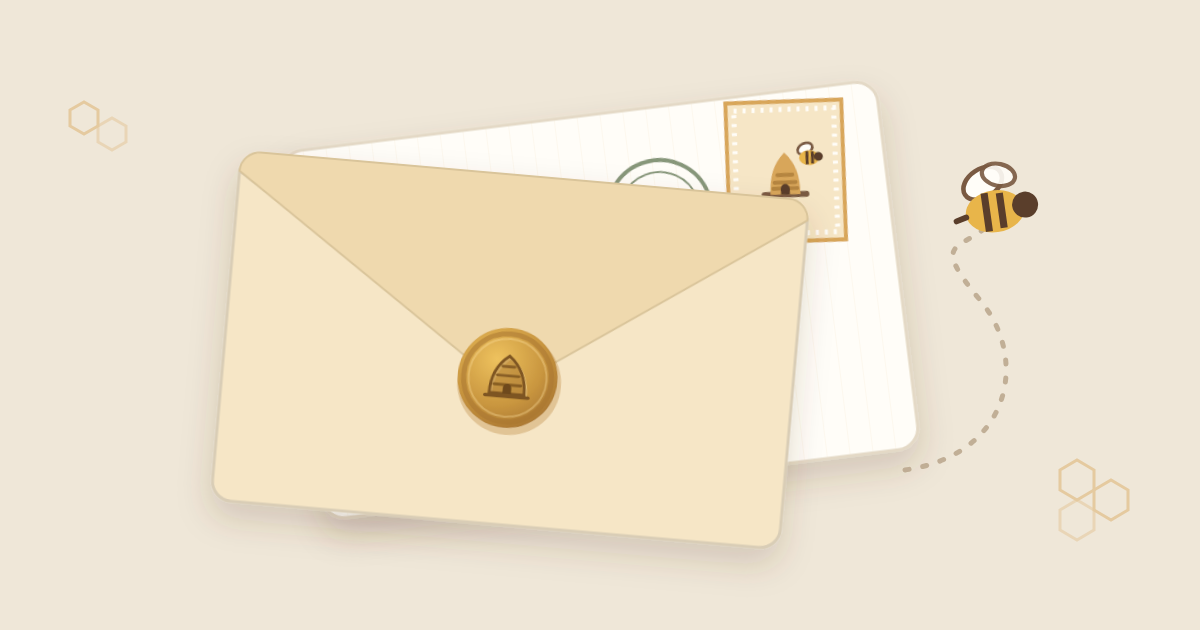
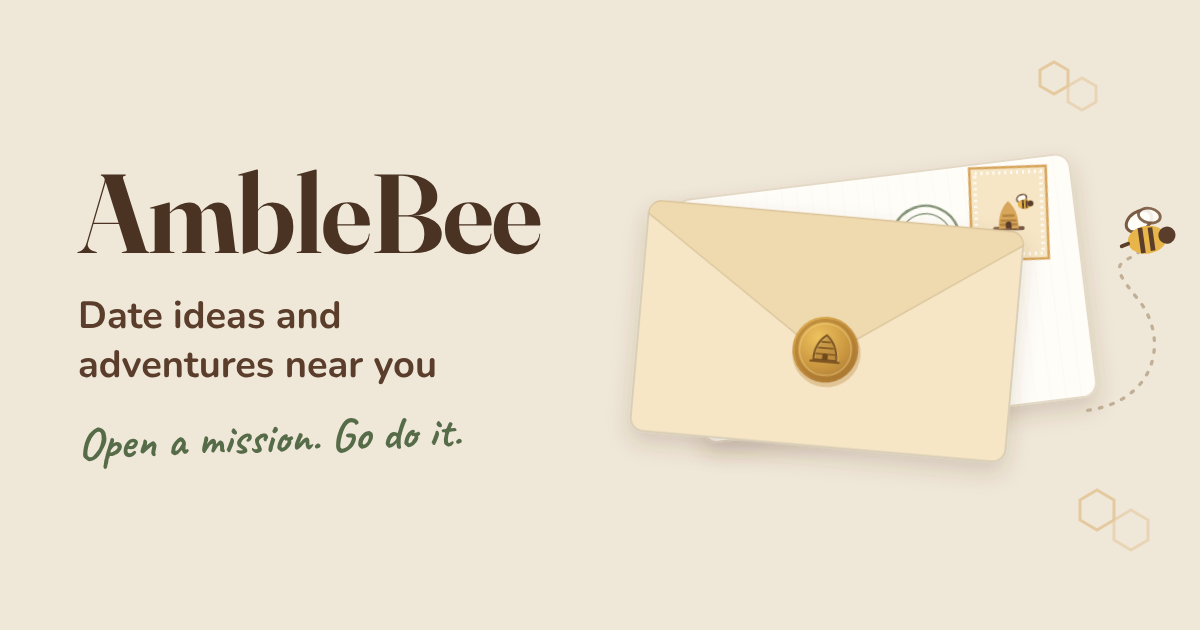
Share cards for site pages, and a home page preview with the AmbleBee name

diff --git a/tools/og-image.html b/tools/og-image.html
@@ -1,5 +1,16 @@
-<!-- Source for site/og-image.png (the 1200x630 link-preview picture). Open in a browser at 1200x630 and screenshot to regenerate. -->
-<!doctype html><html><head><meta charset="utf-8"><style>html,body{margin:0;width:1200px;height:630px;overflow:hidden;background:#EFE7D8}</style></head><body>
+<!-- Source for site/og-image.png (the 1200x630 link-preview picture for the home page). Open in a browser at 1200x630 and
+     screenshot to regenerate; the fonts load from site/fonts/, so open it from inside the repo. -->
+<!doctype html><html><head><meta charset="utf-8"><style>
+@font-face { font-family: F; src: url("../site/fonts/fraunces.woff2"); font-weight: 100 900; }
+@font-face { font-family: N; src: url("../site/fonts/nunito.woff2"); font-weight: 200 1000; }
+@font-face { font-family: C; src: url("../site/fonts/caveat-700.woff2"); font-weight: 700; }
+html,body{margin:0;width:1200px;height:630px;overflow:hidden;background:#EFE7D8;position:relative}
+.words{position:absolute;left:78px;top:0;bottom:0;width:470px;display:flex;flex-direction:column;justify-content:center;z-index:2}
+.name{font:650 112px/1 F;color:#4A3323;letter-spacing:-1.5px;margin:0}
+.line{font:700 38px/1.3 N;color:#5A3E2B;margin:22px 0 0}
+.hand{font:700 46px C;color:#566B48;margin:26px 0 0;transform:rotate(-2deg);transform-origin:left}
+</style></head><body>
+<div class="words"><p class="name">AmbleBee</p><p class="line">Date ideas and adventures near you</p><p class="hand">Open a mission. Go do it.</p></div>
 <svg width="1200" height="630" viewBox="0 0 1200 630" xmlns="http://www.w3.org/2000/svg">
   <defs>
     <radialGradient id="wax" cx="38%" cy="32%" r="75%"><stop offset="0" stop-color="#EEC25E"/><stop offset=".62" stop-color="#C9963F"/><stop offset="1" stop-color="#A87531"/></radialGradient>
@@ -9,6 +20,7 @@
   <!-- soft dotted bee trail across the card -->
   
 
+  <g transform="translate(860 318) scale(.66) translate(-560 -330)">
   <!-- back envelope: addressed front with stamp + postmark (no text) -->
   <g transform="translate(600 300) rotate(-7)" filter="url(#sh)">
     <rect x="-300" y="-185" width="600" height="370" rx="22" fill="url(#paper)" stroke="#E4D9C6" stroke-width="3"/>
@@ -57,9 +69,10 @@
     <circle cx="9.3" cy="2.4" r="3.1" fill="#5A3E2B"/>
     <path d="M-5 3.5 l-2.4 .6" stroke="#5A3E2B" stroke-width="1.4" stroke-linecap="round"/>
   </g>
+  </g>
   <!-- tiny honeycomb accents -->
   <g fill="none" stroke="#D8A65A" stroke-width="3" opacity=".45">
-    <path d="M1060 470 l17 -10 l17 10 v20 l-17 10 l-17 -10z"/><path d="M1094 490 l17 -10 l17 10 v20 l-17 10 l-17 -10z"/><path d="M1060 510 l17 -10 l17 10 v20 l-17 10 l-17 -10z" opacity=".6"/>
-    <path d="M70 110 l14 -8 l14 8 v16 l-14 8 l-14 -8z"/><path d="M98 126 l14 -8 l14 8 v16 l-14 8 l-14 -8z" opacity=".6"/>
+    <path d="M1080 500 l17 -10 l17 10 v20 l-17 10 l-17 -10z"/><path d="M1114 520 l17 -10 l17 10 v20 l-17 10 l-17 -10z" opacity=".6"/>
+    <path d="M1040 70 l14 -8 l14 8 v16 l-14 8 l-14 -8z"/><path d="M1068 86 l14 -8 l14 8 v16 l-14 8 l-14 -8z" opacity=".6"/>
   </g>
 </svg></body></html>

diff --git a/site/index.html b/site/index.html
@@ -15,12 +15,12 @@
 <meta property="og:type" content="website">
 <meta property="og:site_name" content="AmbleBee">
 <meta property="og:url" content="https://amblebee.com/">
-<meta property="og:image" content="https://amblebee.com/og-image.png">
+<meta property="og:image" content="https://amblebee.com/og-image.png?v=2">
 <meta property="og:image:width" content="1200">
 <meta property="og:image:height" content="630">
-<meta property="og:image:alt" content="A sealed AmbleBee envelope with a honey wax seal pressed with a beehive, and a bee flying off to deliver it">
+<meta property="og:image:alt" content="AmbleBee: date ideas and adventures near you. A sealed envelope with a honey wax seal, and a bee flying off to deliver it">
 <meta name="twitter:card" content="summary_large_image">
-<meta name="twitter:image" content="https://amblebee.com/og-image.png">
+<meta name="twitter:image" content="https://amblebee.com/og-image.png?v=2">
 <link rel="icon" href="/favicon.svg" type="image/svg+xml">
 <link rel="icon" href="/favicon-32.png" sizes="32x32" type="image/png">
 <link rel="icon" href="/favicon-192.png" sizes="192x192" type="image/png">

diff --git a/tools/build_pages.py b/tools/build_pages.py
@@ -44,8 +44,8 @@ NEARBY = 3         # "More missions nearby" at the bottom of each mission page: 
 META_MAX = 158     # Google cuts search snippets off at about this many characters
 COLLECTION_MIN = 8 # a collection page (collections.yaml) is built and linked once it has this many live missions
 NEARBY_KM = 160    # about 100 miles; past that, a mission page shows more from its own pack instead
-OG_IMAGE = {"url": f"{BASE}/og-image.png",   # for pages without their own share card; the same as site/index.html
-            "alt": "A sealed AmbleBee envelope with a honey wax seal pressed with a beehive, and a bee flying off to deliver it"}
+OG_IMAGE = {"url": f"{BASE}/og-image.png?v=2",   # for pages without their own share card; the same as site/index.html
+            "alt": "AmbleBee: date ideas and adventures near you. A sealed envelope with a honey wax seal, and a bee flying off to deliver it"}
 CSP = "default-src 'self'; script-src 'self' https://www.googletagmanager.com; style-src 'self' 'unsafe-inline'; img-src 'self' data: blob: https://www.googletagmanager.com https://*.google-analytics.com; connect-src 'self' https://www.googletagmanager.com https://*.google-analytics.com https://*.google.com; object-src 'none'; base-uri 'self'; form-action 'self'"  # also in site/index.html and site/roadmap.html; the Google hosts are for the optional stats in site/js/stats.js
 # the same "Report a problem" form as site/js/core.js: opens with the mission's id and name already filled in
 REPORT_FORM = "https://docs.google.com/forms/d/e/1FAIpQLSesllGRZbJaA4nINHJnwgmJxMIFX4z1aI88puOSOCUmzrnfHQ/viewform"
@@ -53,9 +53,12 @@ REPORT_FIELDS = {"id": "entry.872618061", "name": "entry.160884926"}
 INFO_PAGES = {   # pages/<name>.html holds the words; edit those, not this
     "about": ("About", "How AmbleBee started, where the missions came from, and where the camera and Hive are going."),
     "safety": ("Safety", "How to stay safe on an AmbleBee mission, and what's up to you."),
-    "privacy": ("Privacy", "What AmbleBee Missions keeps, what stays on your device, and what goes to Google or GitHub."),
+    "privacy": ("Privacy", "What AmbleBee keeps, what stays on your device, and what goes to Google or GitHub."),
     "contact": ("Contact", "How to reach AmbleBee: report a problem, suggest a place, or ask for a change."),
 }
+
+# the small line above the title on each info page's share card
+CARD_EYEBROW = {"about": "Our story", "safety": "Before you go", "privacy": "Your info", "contact": "Say hello"}
 
 # the same wording as the labels at the top of site/js/core.js
 MODE = {"date": "Date", "adventure": "Adventure", "both": "Date or adventure"}
@@ -554,14 +557,18 @@ def build_pages(out):
     ld = {"@context": "https://schema.org", "@type": "CollectionPage", "url": f"{BASE}/missions/", "name": "Every mission", "description": intro}
     (Path(out) / "missions").mkdir(parents=True, exist_ok=True)
     (Path(out) / "missions" / "index.html").write_text(
-        page(f"Every mission · {SITE_NAME}", intro, "/missions/", main, ld, brand), encoding="utf-8")
+        page(f"Every mission · {SITE_NAME}", intro, "/missions/", main, ld, brand,
+             image=share_card("page-missions", f"Every mission: {intro}", badge="hive", eyebrow="Date & adventure ideas",
+                              title="Every mission", text=intro, note="amblebee.com/missions")), encoding="utf-8")
 
     for name, (title, desc) in INFO_PAGES.items():
         path = f"/{name}/"
         body = (ROOT / "pages" / f"{name}.html").read_text(encoding="utf-8")
         main = f'<div class="page info">\n{body}</div>'
         ld = {"@context": "https://schema.org", "@type": "WebPage", "url": BASE + path, "name": title, "description": desc}
-        write(path, page(f"{title} · {SITE_NAME}", desc, path, main, ld, brand, current=name))
+        image = share_card(f"page-{name}", f"{title}: {desc}", badge="hive", eyebrow=CARD_EYEBROW.get(name, "AmbleBee"),
+                           title=title, text=desc, note=f"amblebee.com/{name}")
+        write(path, page(f"{title} · {SITE_NAME}", desc, path, main, ld, brand, current=name, image=image))
         if dates.get(f"pages/{name}.html"):
             lastmod[path] = dates[f"pages/{name}.html"]
 
@@ -581,13 +588,23 @@ def build_pages(out):
     (Path(out) / "sitemap.xml").write_text(
         f'<?xml version="1.0" encoding="UTF-8"?>\n<urlset xmlns="http://www.sitemaps.org/schemas/sitemap/0.9">{sitemap}</urlset>\n',
         encoding="utf-8")
+    trail = "What's new on AmbleBee, and what's coming next."   # the same as og:description in site/roadmap.html
+    trail_card = share_card("page-roadmap", f"The Bee Trail: {trail}", badge="hive", eyebrow="Roadmap & changelog",
+                            title="The Bee Trail", text=trail, note="amblebee.com/roadmap")
     (Path(out) / "cards").mkdir(parents=True, exist_ok=True)
     (Path(out) / "cards" / "cards.json").write_text(json.dumps(to_draw, ensure_ascii=False), encoding="utf-8")
     (Path(out) / "robots.txt").write_text(f"User-agent: *\nAllow: /\n\nSitemap: {BASE}/sitemap.xml\n", encoding="utf-8")
     for name, current in (("index.html", "index"), ("roadmap.html", "roadmap")):
         f = Path(out) / name
-        f.write_text(f.read_text(encoding="utf-8").replace("<!--site-nav-->", nav_html(current))
-                     .replace("<!--ideas-->", ideas_html(collections)), encoding="utf-8")
+        text = f.read_text(encoding="utf-8").replace("<!--site-nav-->", nav_html(current)).replace("<!--ideas-->", ideas_html(collections))
+        if name == "roadmap.html":   # the Bee trail gets its own share card; the home page keeps the envelope
+            old = re.search(r'<meta property="og:image" content="[^"]*">', text)
+            assert old, "site/roadmap.html lost its og:image line"
+            text = text.replace(old.group(0), f'<meta property="og:image" content="{esc(trail_card["url"])}">\n'
+                                '<meta property="og:image:width" content="1200">\n<meta property="og:image:height" content="630">\n'
+                                f'<meta property="og:image:alt" content="{esc(trail_card["alt"])}">\n'
+                                f'<meta name="twitter:image" content="{esc(trail_card["url"])}">')
+        f.write_text(text, encoding="utf-8")
     version_files(Path(out))
     return len(missions), len(packs), len(urls)
 

diff --git a/tools/smoke_test.py b/tools/smoke_test.py
@@ -583,7 +583,7 @@ def t_built_pages_load(site, catalog):
         page.wait_for_selector("h1")
     page = site.open(f"/missions/{mission['id']}/")
     assert mission["name"] in page.inner_text("h1")
-    for path in (f"/missions/{mission['id']}/", f"/packs/{mission['pack']}/", "/free-date-ideas/"):   # each has its share card
+    for path in (f"/missions/{mission['id']}/", f"/packs/{mission['pack']}/", "/free-date-ideas/", "/about/", "/roadmap.html"):   # each has its share card
         card = site.open(path).get_attribute('meta[property="og:image"]', "content")
         assert "/cards/" in card and "?v=" in card, f"{path} has no share card of its own"
         r = page.request.get(site.base + card.split("amblebee.com", 1)[1])
